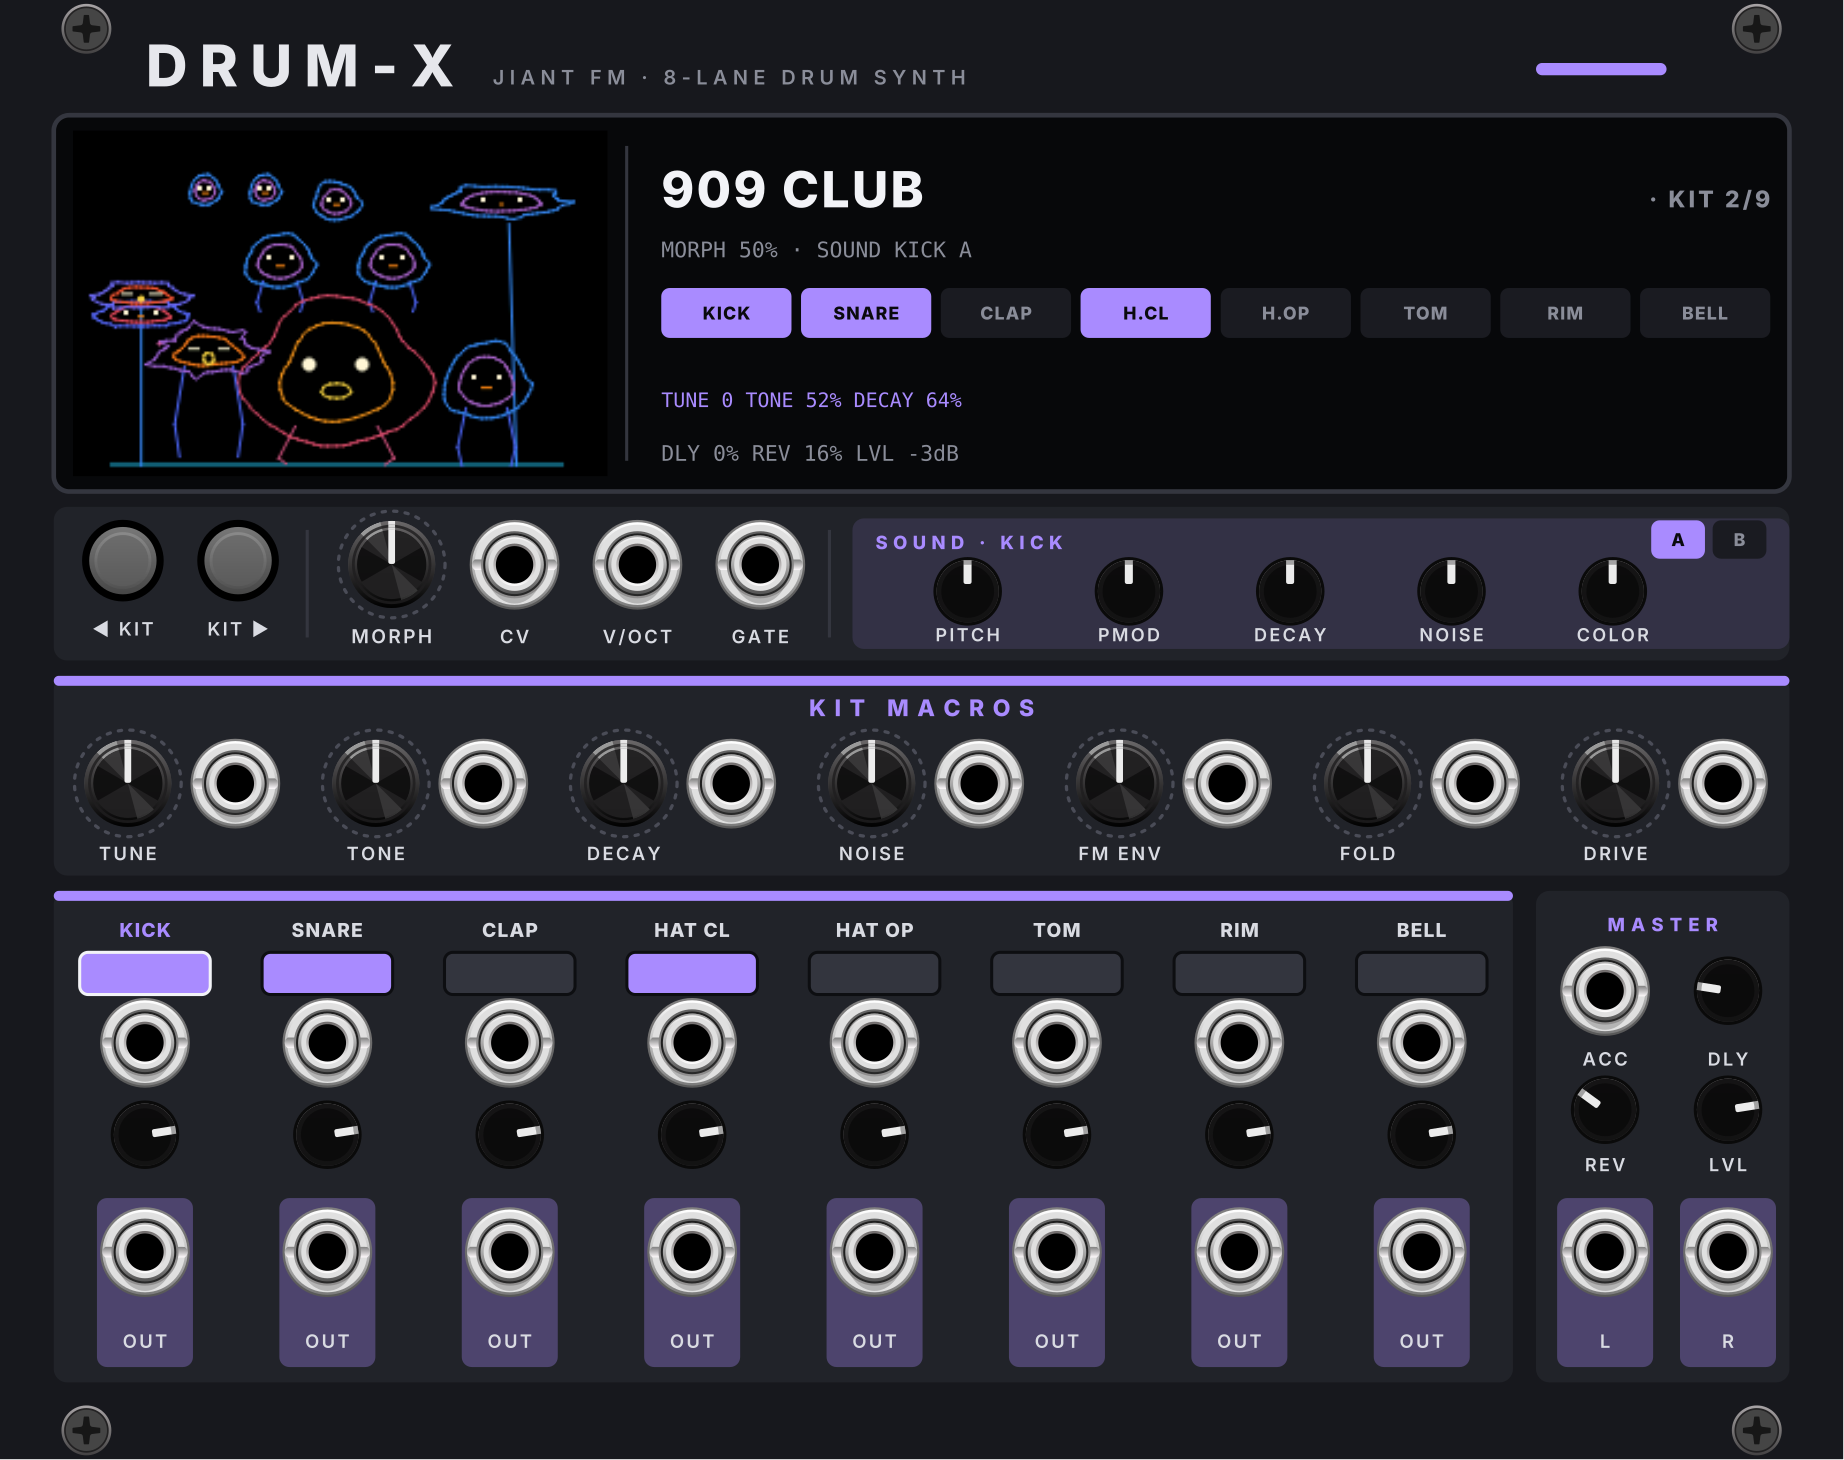
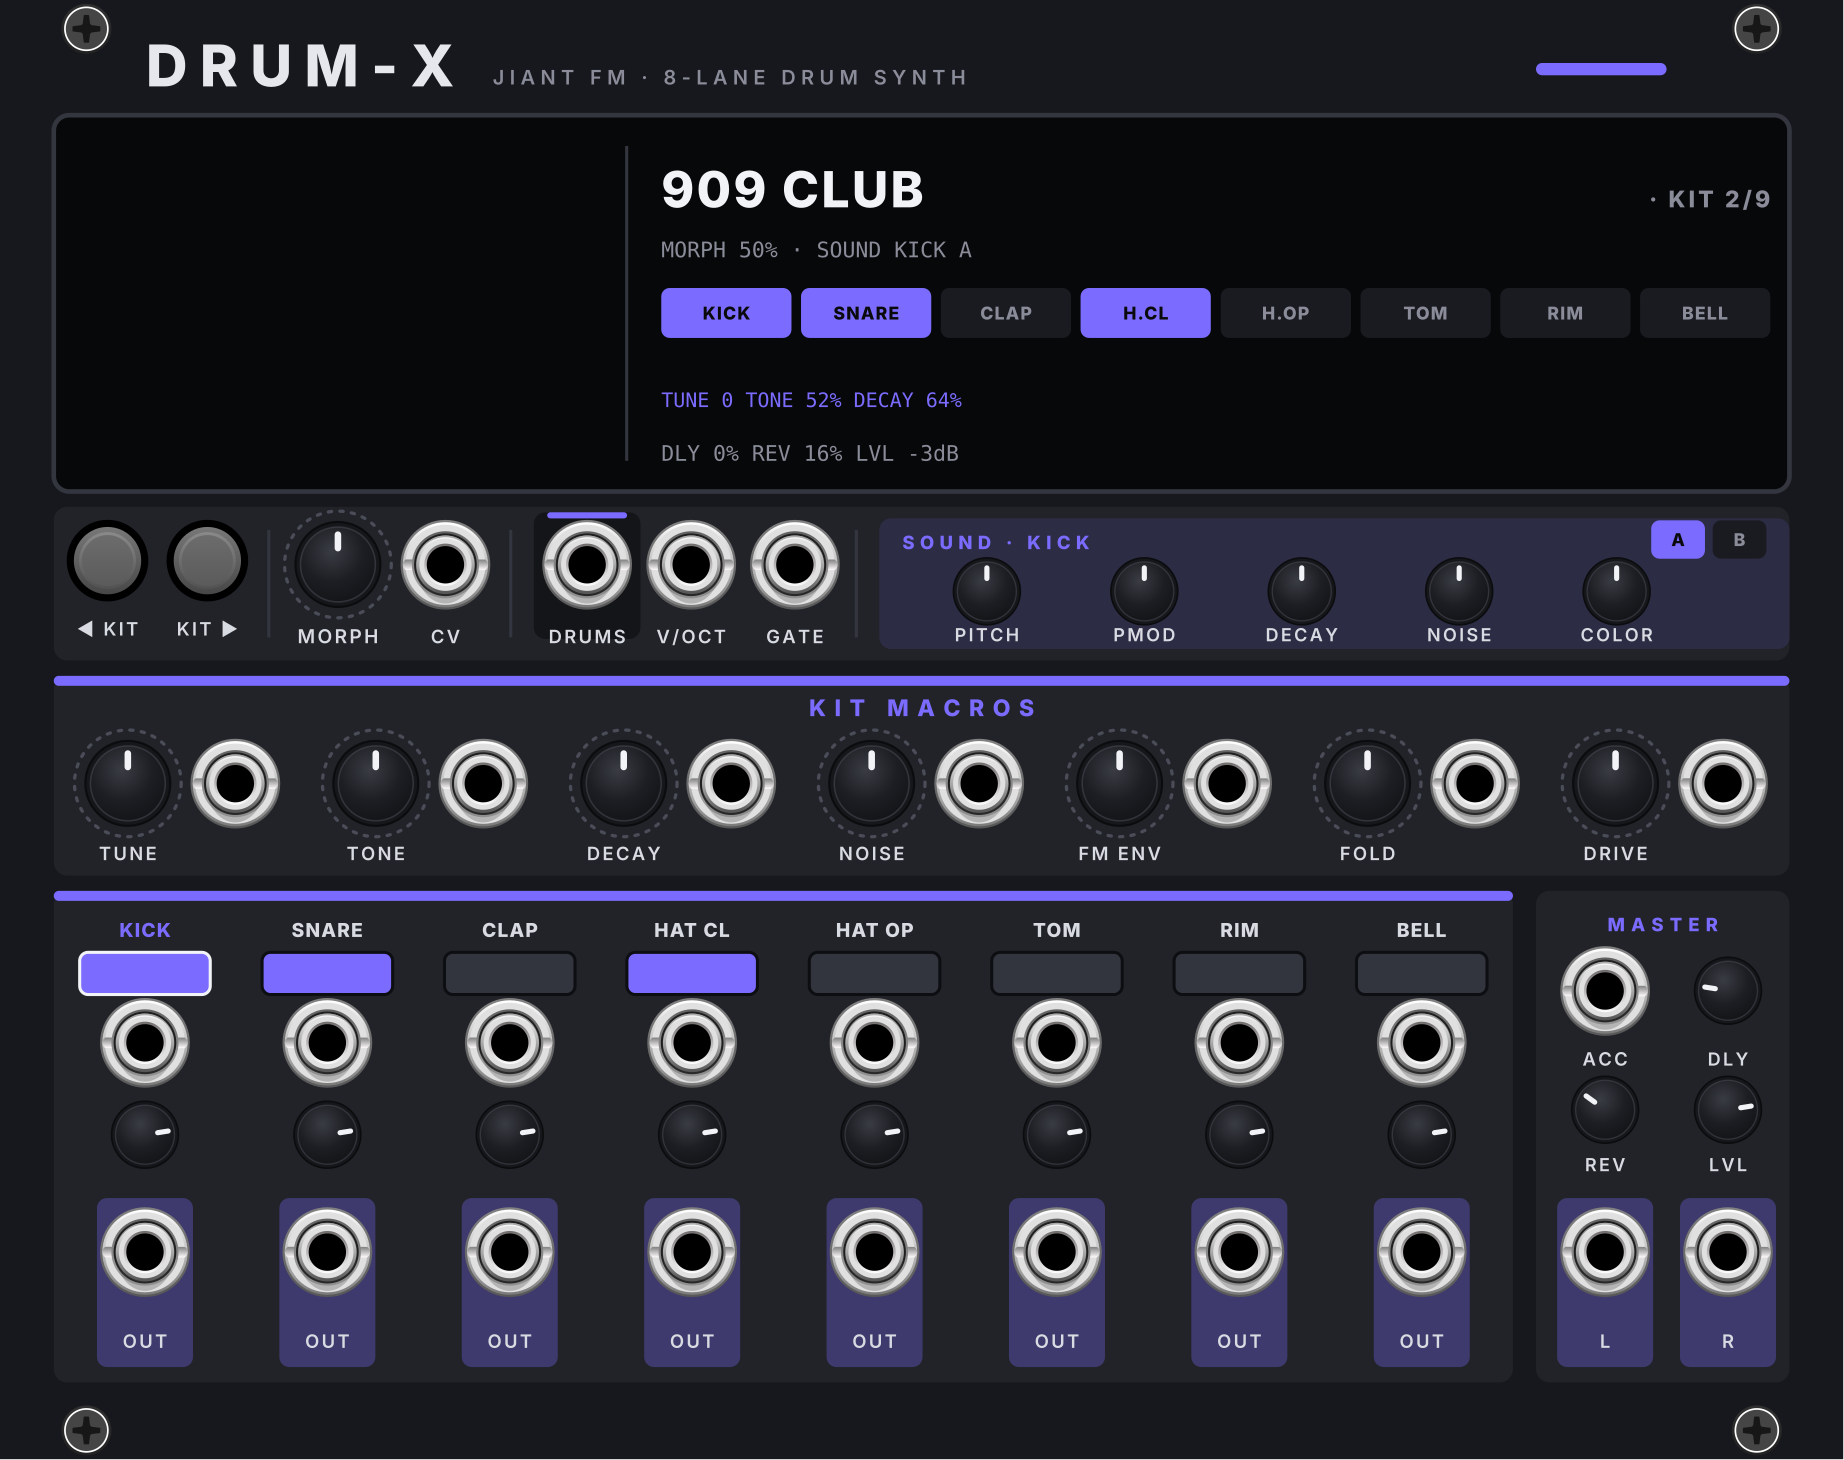
2.13.0: Doku, Vorschaubilder mit den neuen Reglern
Claude-Session: https://claude.ai/code/session_01ETAzGw4X7G1MNrLSG9NicD

diff --git a/README.md b/README.md
@@ -1,6 +1,6 @@
 # GENRA – Plugin für VCV Rack 2
 
-Ein generativer, genreabhängiger 4-Spur-Sequencer mit MIDI-Grid, Performance-Effekten und passenden Instrumenten, alle im selben Look. Plugin-Version **2.12.0**, 16 Module. Projektstand und Entscheidungen: `PROJEKT.md`.
+Ein generativer, genreabhängiger 4-Spur-Sequencer mit MIDI-Grid, Performance-Effekten und passenden Instrumenten, alle im selben Look. Plugin-Version **2.13.0**, 16 Module. Projektstand und Entscheidungen: `PROJEKT.md`.
 
 | Modul | Breite | Farbe | Was es ist |
 |---|---|---|---|
@@ -49,7 +49,7 @@ GENRA erfindet genretypische Loops (1/2/4/8 Takte) für **8 Drumspuren, Bass, Me
 - **Pro Spur:** DENSITY + DENS-CV · zweiter Regler (Drums: FILL, GHOST · Bass: MOVE · Melodie: RANGE · Pads: VOICING) · OCT (Bass/Melodie/Pads) · Genre-Feld + GENRE-CV · MUTE · LOCK · NEW · TRIG.
 - **Eingänge (IN):** CLOCK, RESET, RUN, NEW, FILL, MUTATE, GENRE, VARIANT, TRANSP (V/Oct), COMPLEX, COLOR, SWING, BPM, LENGTH, CHORD (poly) · pro Spur GENRE-CV, DENS-CV, TRIG · HARMONY TRIG.
 - **Ausgänge pro Spur:** 8 Drum-Trigger (Höhe = Velocity) · Bass/Melodie: V/OCT, GATE, VEL, ACC, SLIDE · Pads: V/OCT + GATE (poly 4), VEL, MOD.
-- **Ausgänge (OUT):** CLOCK (16tel), RESET (Loop-Anfang), RUN (Gate), BAR (pro Takt), END (letzter Step), FILL (Gate während Fill/Drop), ROOT (Grundton des aktuellen Akkords, V/Oct zwischen C4 und B4), CHORD (ganzer Akkord, polyphon).
+- **Ausgänge (OUT):** CLOCK (16tel), RESET (Loop-Anfang), RUN (Gate), BAR (pro Takt), END (letzter Step), FILL (Gate während Fill/Drop), ROOT (Grundton des aktuellen Akkords, V/Oct zwischen C4 und B4), CHORD (ganzer Akkord, polyphon), **DRUMS** (alle 8 Drumspuren auf einem Poly-Kabel in GENRAs Reihenfolge, z. B. in DRUM-X; die 8 Einzelausgänge bleiben).
 - **Display:** Genre und Variante, Tonart, BPM, Swing, Akkordfolge, Genre jeder Spur neben ihren Lauflichtern. Akkord anklicken = nächste Alternative, Rechtsklick = Liste, Mausrad = mehr/weniger Farbe. Akkordnamen mit # oder b passend zur Tonart.
 - **Rechtsklick-Menü:** MIDI-Export/-Import, Akkord-Modus, Akkord-Vorlage, nur Akkorde neu würfeln, Genre-CV-Modus, alle Spuren auf Global, Clock-Auflösung, *Verbinden mit…* (Grid Editor).
 
@@ -155,6 +155,8 @@ Stereo-Effekt: z. B. GENRAs Drums oder MIX-Ausgang hinein, CLOCK von GENRA.
 
 Das passende Set zu GENRA: **GENRA MONO** oder **K-WASUB** für den Bass, **FUNKE** für die Melodie, **SCHMELZ** für die Pads, **DRUM-X** für die Drums – zusammengeführt im **MIX**. Dazu weitere Stimmen: VOICE, ANIMAL, MONK und UMLAUF.
 
+**Die GENRA-Leiste (ab 2.13.0):** Jedes Instrument nimmt GENRAs Spur-Ausgänge an derselben Stelle auf – unten links, gleich beschriftet, in derselben Reihenfolge: **V/OCT · GATE · VEL · ACC · SLIDE · MOD** auf einer Fläche mit einer Linie in der Spurfarbe, rechts daneben **CLOCK · RESET** (graue Linie). Was ein Instrument nicht braucht, lässt es weg; die Reihenfolge bleibt. Alle Buchsen sind normale Ein- und Ausgänge, also auch mit anderen VCV-Modulen nutzbar. Neu dafür: MOD an SCHMELZ (auf Crescendo, Animate oder Tone, Rechtsklick-Menü), ACC und SLIDE an K-WASUB, RESET an FUNKE, DRUMS-Eingang an DRUM-X; bei MONO heissen SYNC und RETRIG jetzt CLOCK und RESET, bei FUNKE VIB jetzt MOD. Alle Module haben dieselben dunklen Regler (`res/knob/`).
+
 > SCHMELZ, MIX, K-WASUB und UMLAUF entstanden im eigenen Repo `CamilloGF/vcv-synthis` (Plugin GENRA SYNTHIS) und sind seit 2.6.0 Teil des GENRA-Plugins. Ihre Modul-Slugs sind gleich geblieben; Patches, die sie aus dem GENRA-SYNTHIS-Plugin geladen haben, müssen sie neu einsetzen. Das GENRA-SYNTHIS-Plugin am besten deinstallieren, sonst stehen die Module doppelt im Browser.
 
 ### GENRA MONO: Bass-Synth nach dem Moog Minitaur
@@ -168,9 +170,9 @@ Monophoner Synth (28 HP, Stand 2.10.0) im Look von MONK und den JIANT-Stimmen, F
 - **Oszillatoren:** pro VCO WAVE (stufenlos Dreieck → Sägezahn → Rechteck → schmaler Puls), TUNE (±12 Halbtöne, fein um die Mitte – zum leichten Verstimmen) und LEVEL (hohe Pegel übersteuern das Filter); GLIDE; ACCENT (wie stark ACC wirkt).
 - **Filter:** Klick auf das Feld öffnet die Liste, das Mausrad blättert: LADDER 24 (Moog, Standard, Bass bleibt bei Resonanz erhalten), LADDER 12, DIODE (303), MS-20, SVF LP/BP/HP (Oberheim SEM), OTA (Juno). CUTOFF, RES, EG AMT (bipolar), DRIVE, KEY TRK.
 - **Hüllkurven:** Filter- und Amp-ADSR mit analogen Kurven (1 ms … 10 s).
-- **LFO:** RATE (0,05–50 Hz), TRI/SQR, Stärke auf Tonhöhe und Filter. **RETRIG** startet die Welle neu (z. B. GENRAs GATE). **SYNC:** Steckt eine Clock, läuft der LFO im Takt und RATE wählt den Notenwert (4 Takte … 1/32, auch punktiert und triolisch, im Tooltip); Clock-Auflösung im Rechtsklick-Menü, Standard 16tel wie GENRA.
+- **LFO:** RATE (0,05–50 Hz), TRI/SQR, Stärke auf Tonhöhe und Filter. **RESET** (früher RETRIG) startet die Welle neu (z. B. GENRAs GATE). **CLOCK** (früher SYNC): Steckt eine Clock, läuft der LFO im Takt und RATE wählt den Notenwert (4 Takte … 1/32, auch punktiert und triolisch, im Tooltip); Clock-Auflösung im Rechtsklick-Menü, Standard 16tel wie GENRA.
 - **STEREO:** WIDTH verteilt die beiden VCOs leicht nach links und rechts und legt einen feinen Chorus auf die Höhen; unter 150 Hz bleibt der Bass immer mono. Ohne Kabel in R ist L der Mono-Ausgang.
-- **Eingänge:** V/OCT (0 V = C4), GATE, VEL, **ACC**, **SLIDE** – in derselben Reihenfolge wie GENRAs Bass-Ausgänge – und CV für CUT (1 V/Okt.), RES, DRIVE, RATE (1 V/Okt.; mit SYNC: 1 V = 2 Notenwerte), VCA, EXT (externes Audio durchs Filter). **Ausgänge:** L, R.
+- **Eingänge:** V/OCT (0 V = C4), GATE, VEL, **ACC**, **SLIDE** – in derselben Reihenfolge wie GENRAs Bass-Ausgänge – und CV für CUT (1 V/Okt.), RES, DRIVE, RATE (1 V/Okt.; mit CLOCK: 1 V = 2 Notenwerte), VCA, EXT (externes Audio durchs Filter). **Ausgänge:** L, R.
 - **ACC:** Eine akzentuierte Note (ACC beim Notenstart über 1 V) wird lauter und bekommt mehr Filterhüllkurve, wie bei der 303. **SLIDE:** Ist der Eingang gesteckt, gleitet MONO nur, solange SLIDE anliegt (Gleitzeit GLIDE, bei 0 eine kurze 303-Gleitzeit); die Hüllkurven starten dabei nicht neu, weil GENRA das Gate offen hält. Ohne Kabel wirkt GLIDE wie bisher auf jede Note.
 - Oszillatoren und Filter laufen mit 2-facher Überabtastung.
 - **Presets (ab 2.9.0):** Feld oben im Kopf – Klick öffnet die Liste, das Mausrad blättert. 23 Werks-Presets nach Stil (SUB, CLASSIC, GARAGE · 2-STEP, DUB · DUBSTEP · GRIME, ACID, HOUSE · TECHNO · ELECTRO, HIP-HOP · LO-FI). Ein grüner Punkt hinter dem Namen zeigt, dass seit dem Laden ein Regler bewegt wurde. Eigene Presets: Rechtsklick → *Save preset as …* (Name, Enter), sie liegen in `Rack2/Genra/MonoPresets/` und erscheinen unter USER.
@@ -229,7 +231,7 @@ Melodie-Ausgängen: V/OCT, GATE, VEL, ACC, SLIDE und CLOCK.
 - **ENVELOPE** ADSR, **VIBRATO** DEPTH/RATE/DELAY (setzt nach DELAY langsam ein).
 - **FX:** LO-FI (Bandeiern, weniger Bits und Samples), CHORUS, ECHO im Takt (1/16, 1/8, 1/8D, 1/4 von CLOCK; ohne
   Clock 120 BPM; Pingpong, FDBK), VERB. CLOCK-Auflösung im Kontextmenü (Standard 16tel wie GENRA).
-- **CV:** MODEL, TIMBRE, BITE, CUT (1 V/Okt.), RES, VIB (wie ein Modrad), ECHO, LO-FI, ATK, REL.
+- **CV:** MODEL, TIMBRE, BITE, CUT (1 V/Okt.), RES, MOD (Vibrato-Tiefe wie ein Modrad, früher VIB), RESET (Tempo neu messen), ECHO, LO-FI, ATK, REL.
   **Ausgänge:** ENV (Hüllkurve der neuesten Note), L, R (nur L gesteckt: mono).
 
 ### SCHMELZ: String Machine
@@ -378,6 +380,7 @@ src/ablauf/           ABLAUF: Modul (Ablauf.cpp), Frontplatte aus tools/ablauf_p
 res/GenraGrid.svg     Frontplatte des Editors (tools/grid_panel.py real)
 src/Genra.cpp         Rack-Modul, Display, Menüs
 res/Genra.svg         Frontplatte (tools/panel.py real), Vorschau: tools/panel.py preview <datei.svg>
+tools/panellib.py     gemeinsame Panel-Bausteine (GENRA-Leiste)
 src/jiant/            JIANT-Stimmen VOICE, DRUM-X, ANIMAL (Module, Kern-Lader, gemeinsamer Look JiantUI.hpp)
 jiantcore/            die drei Firmware-Kerne als eigene kleine Bibliotheken (res/*core.dll beim Build)
 jiant.tar.gz          Firmware-Quellen von JIANT FM (beim ersten Build nach jiant/ entpackt)

diff --git a/PROJEKT.md b/PROJEKT.md
@@ -1,6 +1,6 @@
 # GENRA – Projektstand
 
-**Stand:** 6. November 2026 · **Plugin 2.12.0: 16 Module** (GENRA, GRID, ABLAUF, VOICE, DRUM-X, ANIMAL, MONK, GENRA MONO, FUNKE, SCHMELZ, MIX, K-WASUB, K-WASUB FX, UMLAUF, UMLAUF FX, STOTTER) · Repo: `CamilloGF/genra-v3`
+**Stand:** 6. November 2026 · **Plugin 2.13.0: 16 Module** (GENRA, GRID, ABLAUF, VOICE, DRUM-X, ANIMAL, MONK, GENRA MONO, FUNKE, SCHMELZ, MIX, K-WASUB, K-WASUB FX, UMLAUF, UMLAUF FX, STOTTER) · Repo: `CamilloGF/genra-v3`
 Vorgänger: v1 `CamilloGF/vcv-sequenzer-Genra` (2.0.0), v2 `CamilloGF/Genra-v2` (2.1.0, läuft in Rack)
 Plattform: VCV Rack Pro 2.6.6 unter Windows · Build: GitHub Actions (`.github/workflows/main.yml`)
 
@@ -262,3 +262,13 @@ GENRA MONO: `g++ -std=c++17 -O2 test/test_mono.cpp -o tm && ./tm`
 - [ ] Test in Rack: Song mit GENRA (Taktgenauigkeit bei interner und externer Clock, 1-Takt-Zeilen), Varianten nach Gehör (Build-Länge, Intro-Dichte je Genre), Undo, Laden/Speichern grosser Bänke.
 
 - Tooltips, Menüs und Meldungen von GENRA, GRID und ABLAUF auf Englisch (wie die übrigen Module).
+
+## GENRA-Leiste und Aufräumen (2.13.0) – Stand 6. November 2026
+- Entscheidungen (Bericht „GENRA-Plugin: Zusammenarbeit und Streamlining“): einheitliche GENRA-Leiste an allen Instrumenten, alle Ein-/Ausgänge bleiben (auch für fremde Module), Verbindung *Spur von GENRA* per Rechtsklick zusätzlich (folgt), Tooltips/Menüs Englisch, Sound-Snapshots in ABLAUF später.
+- Leiste: `tools/panellib.py` (`genra_strip`): V/OCT · GATE · VEL · ACC · SLIDE · MOD (Spurfarbe), CLOCK · RESET (grau), Raster 9,4 mm, unten links. Umgesetzt in MONO, K-WASUB, FUNKE, SCHMELZ, UMLAUF; VOICE, ANIMAL, MONK (Leistenoptik in px); DRUM-X: Poly-Eingang DRUMS.
+- Neue Buchsen (hinten an die Listen gehängt, alte Patches laden): GENRA `DRUMS_OUTPUT` (8 Kanäle), DRUM-X `GENRA_INPUT` (GENRA-Reihenfolge → Spuren 0,1,2,6,3,4,5,7), SCHMELZ `MOD_INPUT` (Ziel im Menü, im Patch), FUNKE `RESET_INPUT` (Tempo neu messen), K-WASUB `ACC_INPUT` (Velocity +30) und `SLIDE_INPUT` (Glide +35 % des Bereichs, solange hoch).
+- Eigene dunkle Regler `res/knob/{large,medium,small,trim}{,_bg}.svg` in Rack-Grössen, Klassen `GLargeKnob`, `GKnob`, `GSmallKnob`, `GTrimpot` in `plugin.hpp` – ersetzen Rack's Round*BlackKnob/Trimpot in allen Modulen (MONK wirkte mit Rack's Reglern silbern).
+- Workflow: GENRAs Engine-Tests (Spuren, Grid-Bearbeitung, Speicherformat, MIDI) laufen mit. Vorschaubilder ohne Rack-Quellen: `../ext/Rack/res/ComponentLibrary` mit Rack's Grafiken plus den eigenen Reglern.
+- [ ] *Spur von GENRA* (Verbindung per Rechtsklick) für alle Instrumente.
+- [ ] Test in Rack: neue Buchsen, Regler-Optik, K-WASUB ACC/SLIDE nach Gehör.
+
